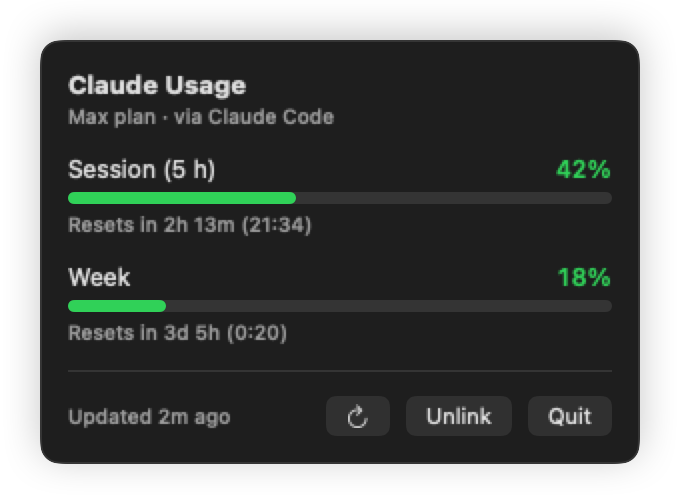
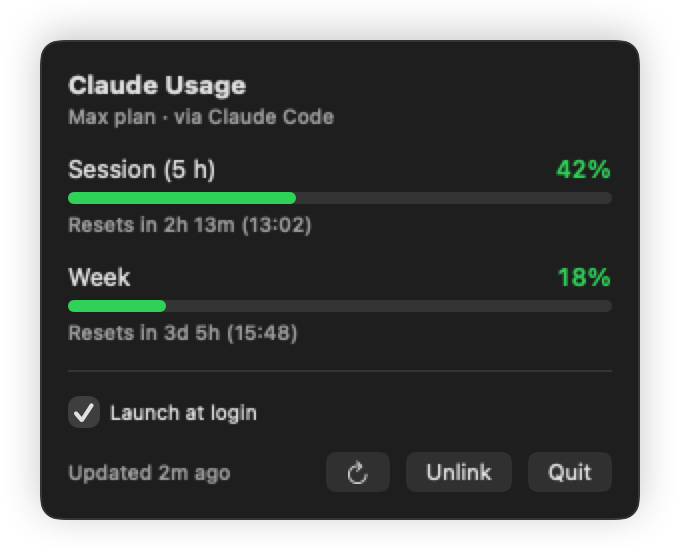
Launch at login by default, with a toggle in the popup (#1)
- New LaunchAtLogin service wrapping SMAppService.mainApp (no helper, no LaunchAgent)
- Register the app as a login item once, on first launch from a .app bundle
- "Launch at login" checkbox on both popup screens, with a link to System Settings when approval is required
- Hidden when running outside a bundle (swift run); sample store shows it enabled for screenshots
- EN/FR strings, README feature line, regenerated popup screenshots

diff --git a/Sources/ClaudeUsage/Store/UsageStore.swift b/Sources/ClaudeUsage/Store/UsageStore.swift
@@ -21,6 +21,9 @@ final class UsageStore {
     var lastRefresh: Date?
     /// Vrai quand le champ « coller le code » doit être affiché.
     private(set) var manualLoginPending = false
+    /// État de l'ouverture à la connexion (relu à chaque ouverture du popup).
+    var launchAtLogin: LaunchAtLogin.Status = .unavailable
+    private(set) var launchAtLoginError: String?
 
     // MARK: Dépendances / internes
     private let api = UsageAPIClient()
@@ -37,6 +40,8 @@ final class UsageStore {
     private enum Keys {
         static let linkedSource = "linkedSource"
         static let autoLinkDisabled = "claudeCodeAutoLinkDisabled"
+        /// Posé après le premier lancement : l'enregistrement par défaut n'est tenté qu'une fois.
+        static let launchAtLoginConfigured = "launchAtLoginConfigured"
     }
 
     var isLinked: Bool { phase == .linked }
@@ -51,6 +56,7 @@ final class UsageStore {
 
     private func bootstrap() async {
         let defaults = UserDefaults.standard
+        configureLaunchAtLoginIfNeeded()
         if let saved = AppKeychainStore.load() {
             credentials = saved
             phase = .linked
@@ -74,6 +80,37 @@ final class UsageStore {
                 try? await Task.sleep(for: .seconds(wait))
             }
         }
+    }
+
+    // MARK: - Ouverture à la connexion
+
+    /// Au premier lancement depuis un bundle, l'app s'enregistre comme élément d'ouverture.
+    /// L'utilisateur peut la décocher ensuite ; on ne réessaie jamais en silence.
+    private func configureLaunchAtLoginIfNeeded() {
+        let defaults = UserDefaults.standard
+        if LaunchAtLogin.isAvailable, !defaults.bool(forKey: Keys.launchAtLoginConfigured) {
+            defaults.set(true, forKey: Keys.launchAtLoginConfigured)
+            if LaunchAtLogin.status == .disabled {
+                try? LaunchAtLogin.setEnabled(true)
+            }
+        }
+        refreshLaunchAtLoginStatus()
+    }
+
+    func refreshLaunchAtLoginStatus() {
+        // Hors bundle (`swift run`, captures), on garde l'état déjà posé.
+        guard LaunchAtLogin.isAvailable else { return }
+        launchAtLogin = LaunchAtLogin.status
+    }
+
+    func setLaunchAtLogin(_ enabled: Bool) {
+        do {
+            try LaunchAtLogin.setEnabled(enabled)
+            launchAtLoginError = nil
+        } catch {
+            launchAtLoginError = tr("Could not update the login item: \(error.localizedDescription)")
+        }
+        refreshLaunchAtLoginStatus()
     }
 
     // MARK: - Liaison via Claude Code

diff --git a/Sources/ClaudeUsage/Views/LaunchAtLoginToggle.swift b/Sources/ClaudeUsage/Views/LaunchAtLoginToggle.swift
@@ -1,0 +1,35 @@
+import SwiftUI
+
+/// Case « Lancer à l'ouverture de session », partagée par les deux écrans du popup.
+/// Masquée quand l'app ne tourne pas depuis un bundle `.app`.
+struct LaunchAtLoginToggle: View {
+    @Environment(UsageStore.self) private var store
+
+    var body: some View {
+        if store.launchAtLogin != .unavailable {
+            VStack(alignment: .leading, spacing: 4) {
+                Toggle(isOn: Binding(
+                    get: { store.launchAtLogin == .enabled || store.launchAtLogin == .requiresApproval },
+                    set: { store.setLaunchAtLogin($0) }
+                )) {
+                    Text(tr("Launch at login")).font(.caption)
+                }
+                .toggleStyle(.checkbox)
+
+                if store.launchAtLogin == .requiresApproval {
+                    Button(tr("Waiting for your approval in System Settings › Login Items")) {
+                        LaunchAtLogin.openSystemSettings()
+                    }
+                    .buttonStyle(.link)
+                    .font(.caption2)
+                }
+                if let error = store.launchAtLoginError {
+                    Text(error)
+                        .font(.caption2)
+                        .foregroundStyle(.orange)
+                        .fixedSize(horizontal: false, vertical: true)
+                }
+            }
+        }
+    }
+}

diff --git a/Sources/ClaudeUsage/Services/LaunchAtLogin.swift b/Sources/ClaudeUsage/Services/LaunchAtLogin.swift
@@ -1,0 +1,41 @@
+import Foundation
+import ServiceManagement
+
+/// Ouverture automatique à la connexion via `SMAppService.mainApp` (macOS 13+).
+/// Ne fonctionne que depuis un vrai bundle `.app` : sous `swift run` l'enregistrement est impossible
+/// et l'option est simplement masquée.
+enum LaunchAtLogin {
+    enum Status: Equatable {
+        case enabled
+        case disabled
+        /// Enregistré, mais l'utilisateur doit encore l'autoriser dans Réglages Système › Ouverture.
+        case requiresApproval
+        /// Pas de bundle `.app` (ex. `swift run`) : rien à proposer.
+        case unavailable
+    }
+
+    static var isAvailable: Bool {
+        Bundle.main.bundleURL.pathExtension == "app"
+    }
+
+    static var status: Status {
+        guard isAvailable else { return .unavailable }
+        switch SMAppService.mainApp.status {
+        case .enabled: return .enabled
+        case .requiresApproval: return .requiresApproval
+        default: return .disabled
+        }
+    }
+
+    static func setEnabled(_ enabled: Bool) throws {
+        if enabled {
+            try SMAppService.mainApp.register()
+        } else {
+            try SMAppService.mainApp.unregister()
+        }
+    }
+
+    static func openSystemSettings() {
+        SMAppService.openSystemSettingsLoginItems()
+    }
+}

diff --git a/Sources/ClaudeUsage/Views/LinkAccountView.swift b/Sources/ClaudeUsage/Views/LinkAccountView.swift
@@ -80,7 +80,8 @@ struct LinkAccountView: View {
             }
 
             Divider()
-            HStack {
+            HStack(alignment: .top) {
+                LaunchAtLoginToggle()
                 Spacer()
                 Button(tr("Quit")) { NSApplication.shared.terminate(nil) }
                     .controlSize(.small)

diff --git a/Sources/ClaudeUsage/Views/PopoverView.swift b/Sources/ClaudeUsage/Views/PopoverView.swift
@@ -13,6 +13,7 @@ struct PopoverView: View {
         }
         .frame(width: 300)
         .onAppear {
+            store.refreshLaunchAtLoginStatus()
             Task { await store.refresh(force: false) }
         }
     }

diff --git a/Sources/ClaudeUsage/Screenshots.swift b/Sources/ClaudeUsage/Screenshots.swift
@@ -104,6 +104,7 @@ extension UsageStore {
         )
         store.lastRefresh = now.addingTimeInterval(-120)
         store.phase = .linked
+        store.launchAtLogin = .enabled
         return store
     }
 }

diff --git a/Sources/ClaudeUsage/Views/UsageView.swift b/Sources/ClaudeUsage/Views/UsageView.swift
@@ -36,6 +36,7 @@ struct UsageView: View {
             }
 
             Divider()
+            LaunchAtLoginToggle()
             footer
         }
         .padding(14)

diff --git a/README.fr.md b/README.fr.md
@@ -25,6 +25,7 @@ réinitialisation, abonnement et liaison du compte.
 - **Liaison sans configuration** : réutilise la session que Claude Code stocke déjà dans le Trousseau.
 - **Connexion autonome** : ou connecte-toi avec Claude depuis l'app (OAuth + PKCE, le même flux que Claude Code).
 - **Respect de la vie privée** : les jetons restent dans le Trousseau macOS et ne sont envoyés qu'à l'API d'Anthropic.
+- **Toujours là** : se lance à l'ouverture de session par défaut (élément d'ouverture macOS standard, sans helper) ; décoche la case dans le popup pour désactiver.
 - **Interface localisée** : anglais par défaut, français inclus (suit la langue du système). Pour ajouter une langue, déposer un `<lang>.lproj/Localizable.strings` dans `Sources/ClaudeUsage/Localization/`.
 
 ## Installation

diff --git a/README.md b/README.md
@@ -25,6 +25,7 @@ your plan, and account linking.
 - **Zero-config linking**: reuses the session Claude Code already stores in your Keychain.
 - **Standalone login**: or sign in with Claude directly from the app (OAuth + PKCE, same flow as Claude Code).
 - **Private by design**: tokens live only in the macOS Keychain and are sent only to Anthropic's API.
+- **Always there**: launches at login by default (standard macOS login item, no helper); untick it in the popup to opt out.
 - **Localized UI**: English by default, French included (follows the system language). Add a language by dropping a `<lang>.lproj/Localizable.strings` in `Sources/ClaudeUsage/Localization/`.
 
 ## Install
